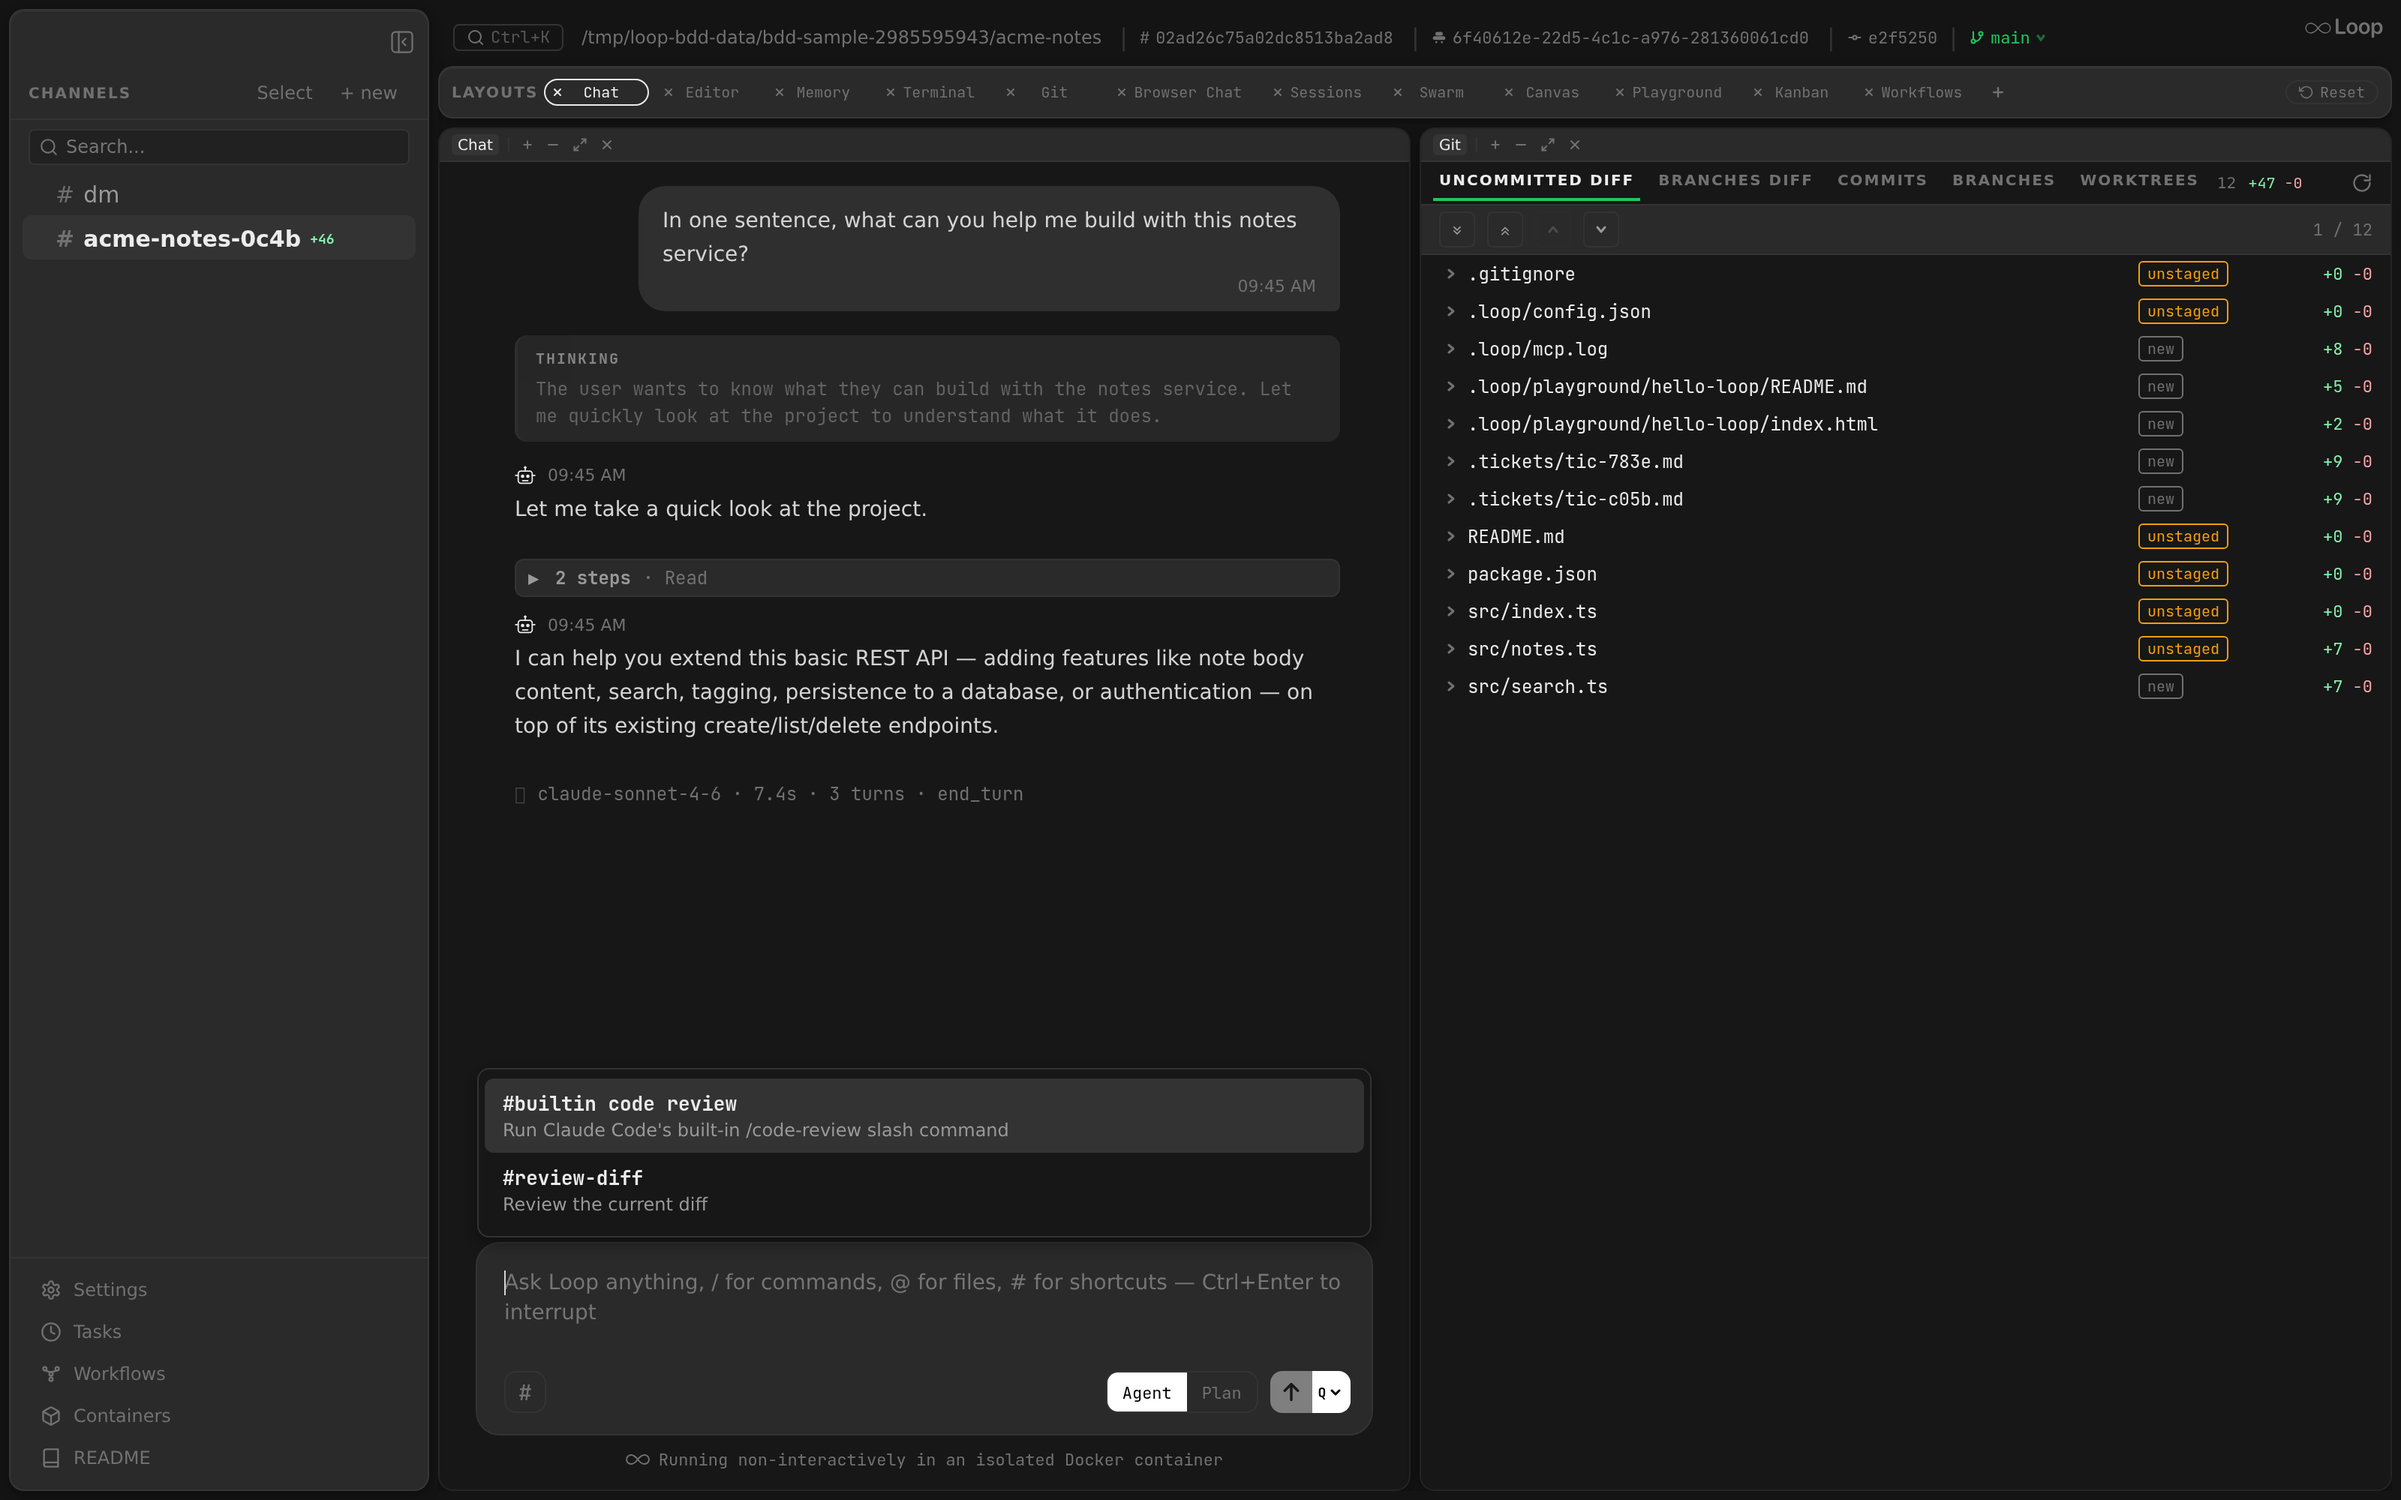
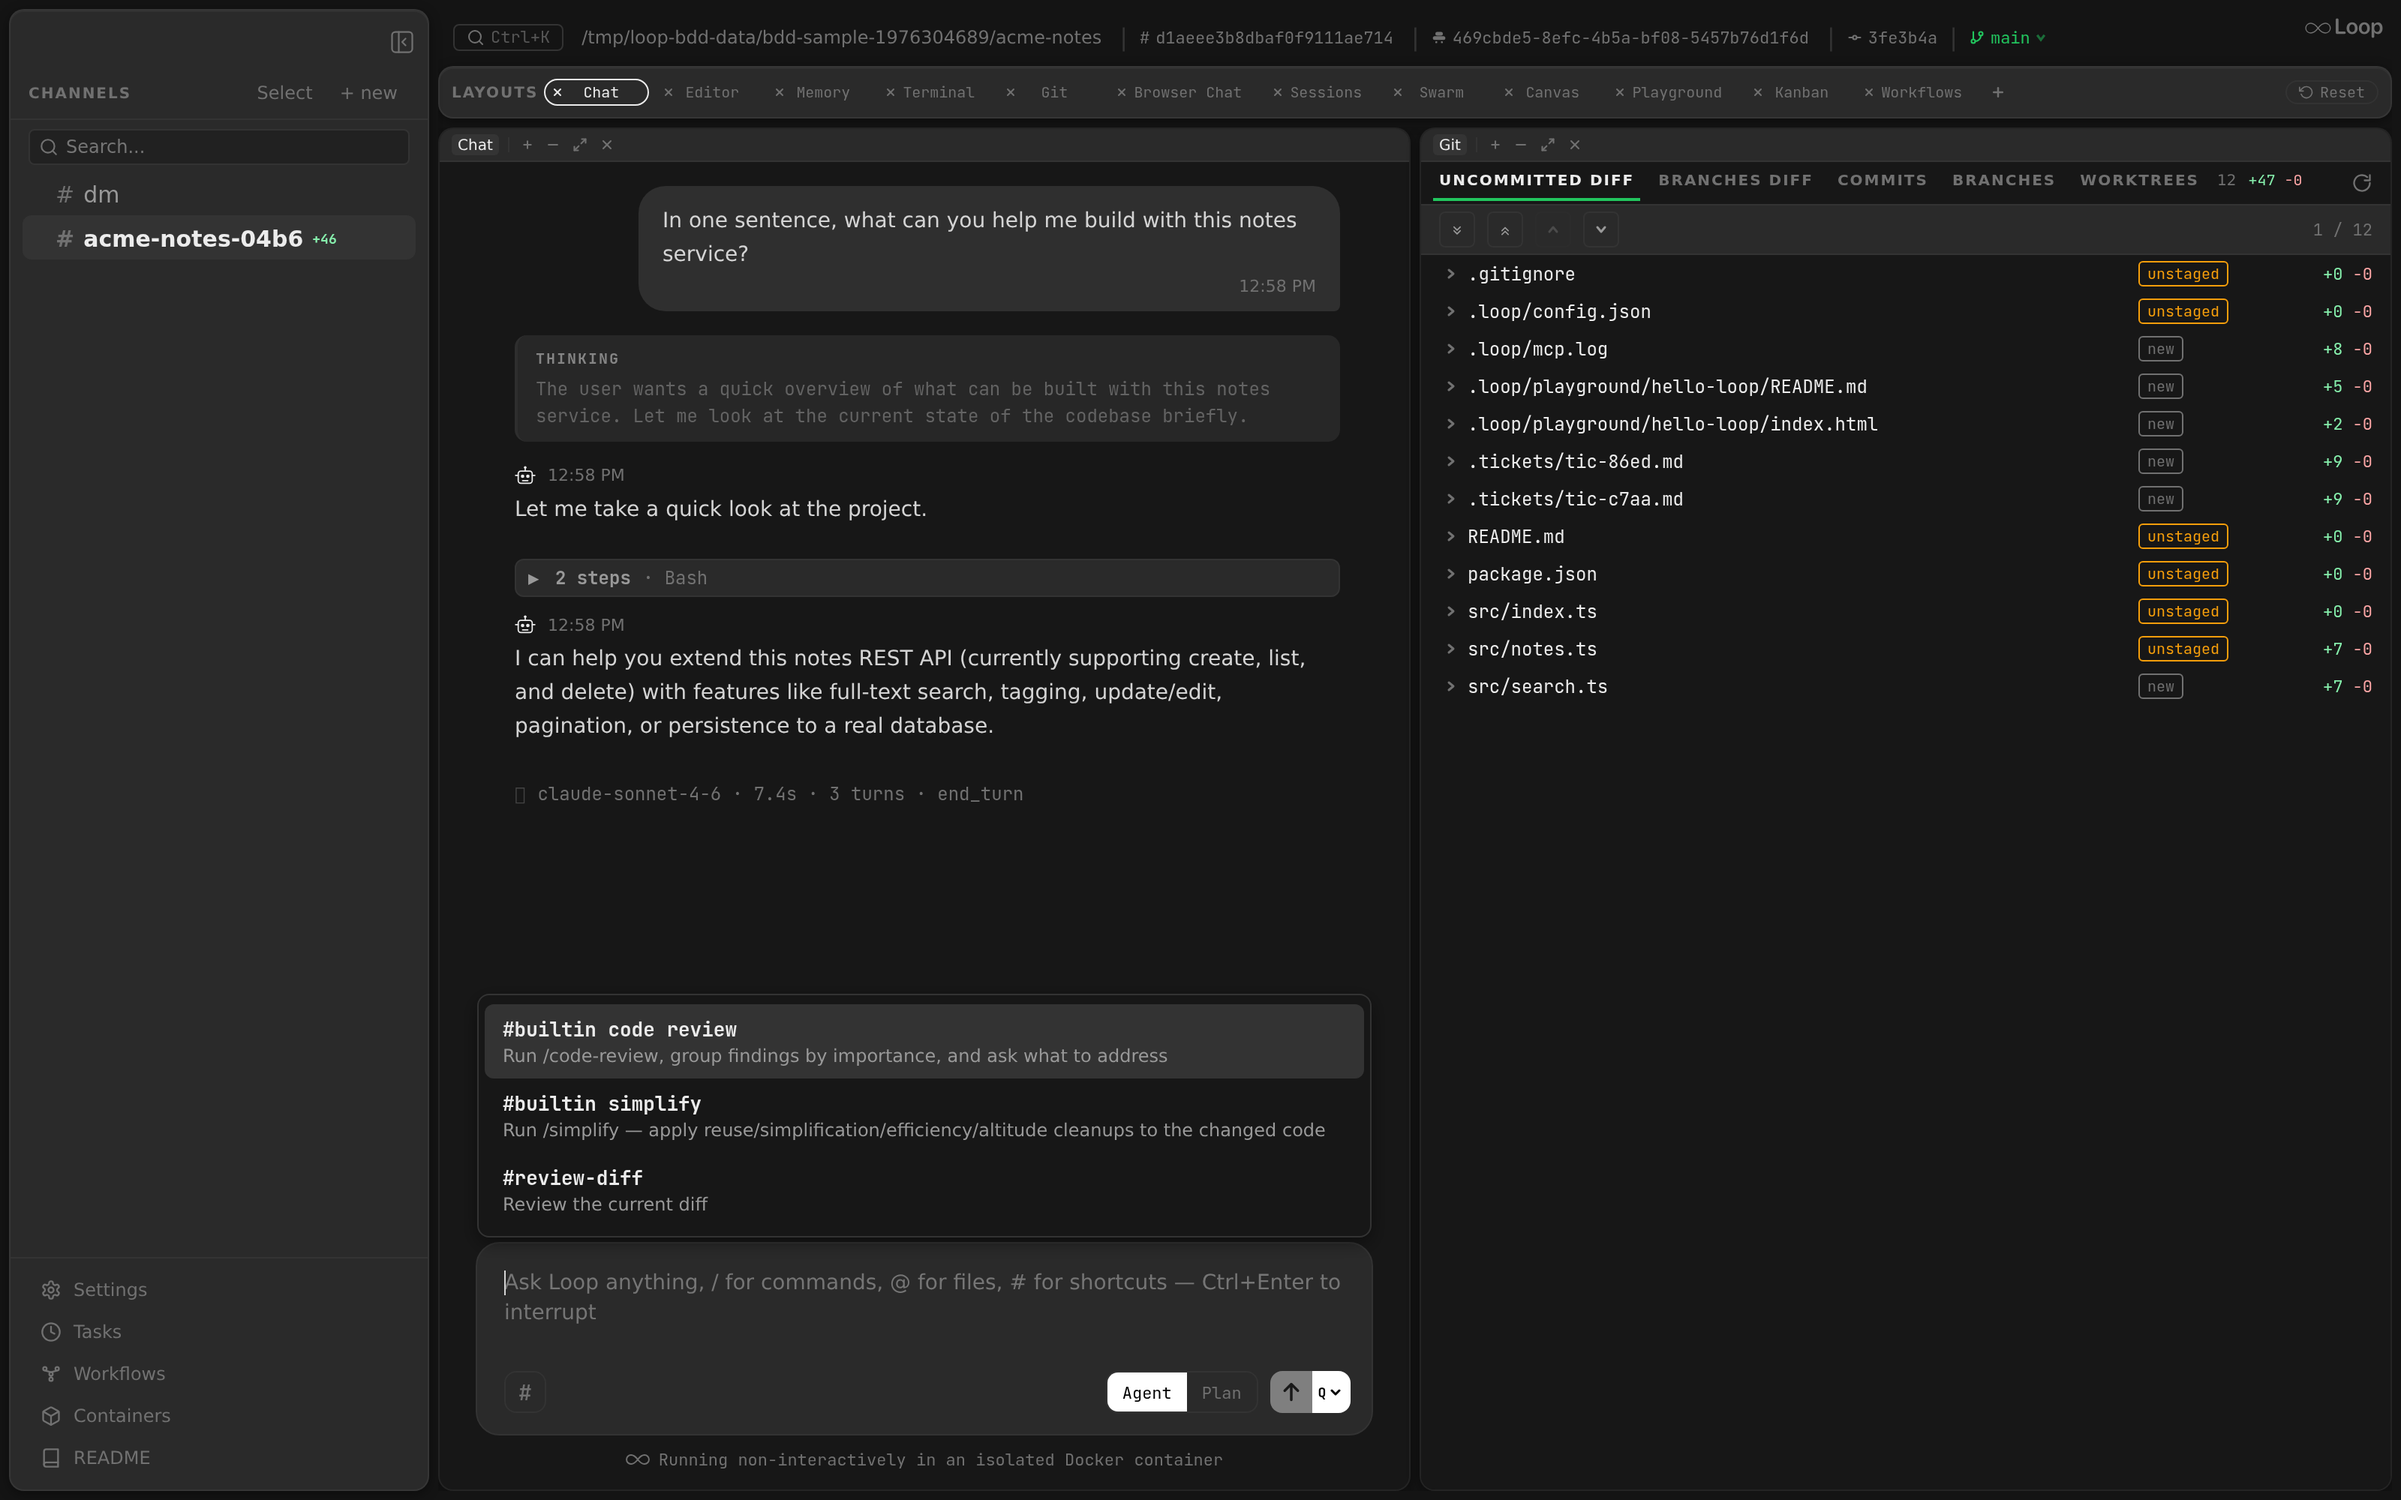
docs: embed gate-approval and quality-panel screenshots; refresh walkthrough assets
The gates and quality pages had no images. Embed the two new captures
(gate ApprovalCard in chat; Quality panel with signal headline, metric
cards, and treemap) and refresh the existing walkthrough screenshots
re-captured by the same run.

diff --git a/docs/gates.md b/docs/gates.md
@@ -244,6 +244,8 @@ Together these body rules are the reason the HTTP layer can afford to default-al
 
 ## Approval UI
 
+![The gate approval card in chat: a blocked exec on /root/.ssh/authorized_keys with Allow once, Allow for session, Deny, and Deny with prompt buttons](static/images/features/gate-approval.png)
+
 Approve decisions cross three platforms through the same `orchestrator.Bot.ApprovalPrompt` interface. Each prompt shows three buttons:
 
 - **Allow once** — default action; allows this single call, nothing cached.

diff --git a/docs/quality.md b/docs/quality.md
@@ -122,6 +122,8 @@ loop quality scan --json | jq -e '.rules.failed | length == 0'
 
 ### Desktop panel
 
+![The Quality panel split into the chat layout: band-coloured signal headline, six metric cards, and the per-file deficit treemap](static/images/features/quality-panel.png)
+
 `QualityPanel.tsx` (`app/src/components/panels/QualityPanel.tsx`). Available as a per-channel split-pane panel; opens via the `+` panel switcher or the chat-bar quality indicator.
 
 Layout, top to bottom:
